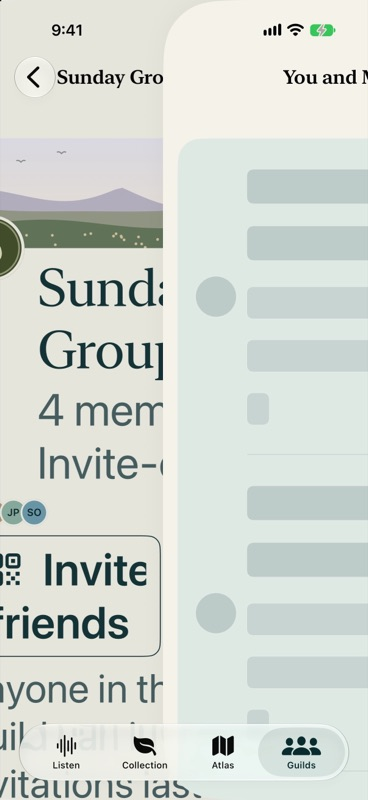
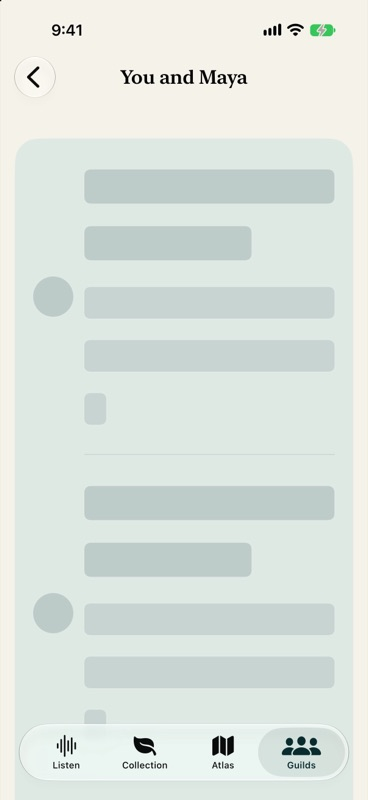
Speed review: numbers and shots after the fixes (#150)

diff --git a/DECISIONS.md b/DECISIONS.md
@@ -1056,15 +1056,15 @@ The UX audit of 2026-11-05, picked over by the maintainer, is #150; this slice i
 
 Before and after on a simulator with 1,000, 5,000 and 20,000 sightings are in `docs/screenshots/150/speed/`, with what's left for a phone. `-seedLarge <n>` and `-speedTour YES` (DEBUG) take them, on a phone too.
 
-- **One store owns the collection.** `CollectionStore`, in the environment, holds the `CardCollection`, and screens read it. It builds again only when the sightings or the sets differ from what it was built from (`CardCollectionCache`, whose tests hold that it answers as a fresh collection does). `PackLibrary.collection(of:)` is gone, so a view can't go back to building its own. Screens that read only the collection lose their `@Query` of the whole album too.
+- **One store owns the collection.** `CollectionStore`, in the environment, holds the `CardCollection`, and screens read it. It builds again only when the sightings or the sets differ from what it was built from (`CardCollectionCache`, whose tests hold that it answers as a fresh collection does). `PackLibrary.collection(of:)` is gone, so a view can't go back to building its own. Screens that read only the collection lose their `@Query` of the whole album too, Listen among them, so a launch fetches the album once, for the store.
 - **It listens for saves, not `@Query`.** `ModelContext.didSave` for its own album reaches it before `save()` returns on the main actor, so a screen drawn after an add already reads the new patch, without a store updated from a view body or a frame with the two disagreeing. Every write in the app saves explicitly, so nothing it reads goes unnoticed. A save that changes nothing it reads (a note, a caption, rarity) reads the album and compares, and no screen draws again. The sets it follows by observation.
 - **Two builds stay outside it**: `SightingRecorder.record` and `RunSightings`, which aren't screens, build from the sightings of one species at an add, and have to answer about the sighting just written.
 - **A patch's page takes its sightings from one table of the album** rather than filtering the album once per patch. Not in the audit: profiling found it, at 8 s of CPU opening a patch over 5,000 sightings.
 - **Lazy rows.** The Atlas's tiles and birds and a set's rows are `LazyVStack`s inside the page's plain `VStack`, which keeps the layout and `-autoScrollTo` as they were. `testASetsPageMakesItsRowsAsTheyScrollIn` counts what was made at open.
-- **The engine warms when Listen appears**: 300 ms after the page appears (past its first frame), at utility priority, in `WarmLoader`, the one load every run shares. Start during the warm-up waits for the same load and raises its priority. A memory warning drops the loader's reference: a run under way keeps its own and the memory goes when it ends, and nothing reloads until Listen appears again or Start is tapped. A load under way carries on, since forgetting it would start a second beside it, and the 8 MB geomodel stays, since the rarity reader uses it as well. The root sets `warmEngine` in the environment, so screens hosted in tests don't load the models.
+- **The engine warms when Listen appears**: 300 ms after the page appears (past its first frame), at utility priority, in `WarmLoader`, the one load every run shares. Start during the warm-up waits for the same load and raises its priority. It doesn't warm during a run, which holds its own engine. A memory warning drops the loader's reference: a run under way keeps its own and the memory goes when it ends, and nothing reloads until Listen appears again or Start is tapped. A load under way carries on, since forgetting it would start a second beside it, and the 8 MB geomodel stays, since the rarity reader uses it as well. The root sets `warmEngine` in the environment, so screens hosted in tests don't load the models.
 - **The Guild cache holds more than the issue names.** The issue says the list and each feed's first page; it also holds each Guild's detail and goals, since a Guild's page can't draw without its detail and a card's faces and goal come from the two. It's one small JSON file in Caches (the server's own shape through the same decoders), so it's out of backups and iOS may purge it. Each read marks what's fresh, so what came from the cache is still read once per launch, in place.
-- **It goes with the account.** The root's `clear()` runs on any sign-out, including a revoked token and account deletion, and removes the file before returning. An answer on its way at that moment is dropped rather than stored, and a cache found at launch while signed out goes unread. Blocking takes a friend's finds out of the feeds and the file at once, not after the reload, which could fail.
-- **Compare keeps the last read in memory only**, by friend, in `CircleStore.friendBirds`. Slice 8's friends' species can build on it.
+- **It goes with the account.** The root's `clear()` runs on any sign-out, including a revoked token and account deletion, and removes the file before returning. An answer on its way at that moment is dropped rather than stored, and a cache found at launch while signed out goes unread. Blocking takes a friend's finds out of the feeds and the file at once, not after the reload, which could fail, and a block made on another device does the same when the list of blocks is read.
+- **Compare keeps the last read in memory only**, by friend, in `CircleStore.friendBirds`, and a block, here or read from another device, or the server answering not found, drops it, so a blocked friend's birds don't stay on screen. Slice 8's friends' species can build on it.
 - **The placeholder** is `GuildPlaceholder`: rows of redacted text with a soft disc, on the list's raised surface. VoiceOver hears "Loading" once per placeholder. It replaces the centred spinner on the Guilds list, a Guild's page, its feed and goals, Compare and the join screen; spinners inside a button (More finds, Join) and "Making an invitation…", which waits on an action rather than content, stay.
 - **`-fakeCircles offline` now fails every read**, not only the list, as no connection does. `-fakeCircleLatency <seconds>` slows the fake's reads and `-circleCacheFile <name>` gives it a cache in tmp; the fakes have none without it.
 

diff --git a/docs/screenshots/150/speed/README.md b/docs/screenshots/150/speed/README.md
@@ -20,9 +20,9 @@ The screen refreshes every second and on the waveform, and built the collection 
 
 | Sightings | Builds | Build ms | CPU ms | Time over budget |
 |---|---|---|---|---|
-| 1,000 | 301 → **0** | 5,205 → **0** | 12,559 → **8,703** | 1,213 → **0** ms |
-| 5,000 | 232 → **0** | 20,965 → **0** | 28,989 → **10,119** | 21,463 → **20** ms |
-| 20,000 | 57 → **0** | 21,569 → **0** | 29,297 → **9,645** | 23,670 → **0** ms |
+| 1,000 | 301 → **0** | 5,205 → **0** | 12,559 → **9,499** | 1,213 → **0** ms |
+| 5,000 | 232 → **0** | 20,965 → **0** | 28,989 → **7,760** | 21,463 → **29** ms |
+| 20,000 | 57 → **0** | 21,569 → **0** | 29,297 → **9,790** | 23,670 → **36** ms |
 
 Before, at 5,000 sightings, the main thread spent 21 s of 30 s building the collection. The count falls at 20,000 only because each build takes so long that few fit.
 
@@ -30,11 +30,11 @@ Before, at 5,000 sightings, the main thread spent 21 s of 30 s building the coll
 
 | Step | Builds (5k) | CPU ms (5k) | Worst frame (5k) | CPU ms (20k) | Worst frame (20k) |
 |---|---|---|---|---|---|
-| Collection tab | 2 → 0 | 1,305 → 1,147 | 738 → 562 ms | 3,416 → 2,618 | past the window → 1,761 ms |
-| A patch's page | 2 → 0 | 8,245 → 1,045 | past the window → 691 ms | 39,510 → 1,717 | past the window → 1,400 ms |
-| Adding a sighting, on the Collection tab | 8 → 1 | 1,950 → 1,184 | 1,435 → 552 ms | 29,176 → 3,384 | past the window → 1,756 ms |
-| Atlas tab | 3 → 0 | 1,411 → 483 | 831 → 287 ms | 6,758 → 942 | past the window → 2,111 ms |
-| A set's page (R5) | 1 → 0 | 1,044 → 255 | 472 → 85 ms | 2,441 → 231 | 15,431 → 74 ms |
+| Collection tab | 2 → 0 | 1,305 → 1,172 | 738 → 569 ms | 3,416 → 2,312 | past the window → 1,708 ms |
+| A patch's page | 2 → 0 | 8,245 → 1,111 | past the window → 683 ms | 39,510 → 1,855 | past the window → 1,388 ms |
+| Adding a sighting, on the Collection tab | 8 → 1 | 1,950 → 1,047 | 1,435 → 480 ms | 29,176 → 3,543 | past the window → 1,550 ms |
+| Atlas tab | 3 → 0 | 1,411 → 485 | 831 → 287 ms | 6,758 → 979 | past the window → 777 ms |
+| A set's page (R5) | 1 → 0 | 1,044 → 179 | 472 → 69 ms | 2,441 → 246 | 15,431 → 87 ms |
 
 At 20,000 before, the 29 s beside "Adding a sighting" is mostly the patch page still paying off from the step ahead of it. A set's 15 s frame is the same kind of leftover.
 
@@ -44,10 +44,10 @@ A set's page made all 160 rows at open and now makes what's on screen: `testASet
 
 | | Before | After |
 |---|---|---|
-| First Start to listening, 5,000 sightings | 230 ms | **84 ms** |
+| First Start to listening, 5,000 sightings | 230 ms | **63 ms** |
 | When the models load | on Start | on Listen, before Start |
 
-The load itself takes 220 to 580 ms on this simulator, depending on the Mac's load, against a fixed location fix and a Mac's disk. The audit's "Starting: finding your location and loading the models" may be mostly the location on a phone, and only a phone can say.
+The load itself takes about 220 ms on this simulator, against a fixed location fix and a Mac's disk. The audit's "Starting: finding your location and loading the models" may be mostly the location on a phone, and only a phone can say.
 
 ### Guilds (R8)
 
@@ -61,12 +61,14 @@ The fake server was slowed to 1 s a read (`-fakeCircleLatency 1`; in the before 
 
 ## What the launch pays
 
-The collection is built once at launch, in the app's init instead of Listen's first body. Reading and building takes 64 ms at 1,000 sightings, 166 ms at 5,000 and 666 ms at 20,000, against 27, 114 and 595 before. The two aren't the same work (the store's also reads the album). It's once per launch, and the first of what used to be many, but it's on the main thread before the first frame, so check it on a phone.
+The collection is built once at launch, in the app's init instead of Listen's first body, and both come before the first frame. The `launch-build-ms` figures are 40, 167 and 619 ms at 1,000, 5,000 and 20,000 sightings, against 27, 114 and 595 before, **but they don't measure the same work**: before, the album had already been fetched by Listen's `@Query`, outside the timer, and now the store's fetch is inside it.
+
+The first version of this slice did fetch the album twice at launch, once for the store and once for Listen's `@Query`. Listen now reads the kept collection, so a launch fetches it once, as it did before. A launch before and after therefore does the same fetch and the same build, and this slice has no like-for-like launch number. That's the phone's check, below.
 
 ## Still slow, not in this slice
 
 - **The Collection tab** at 20,000 sightings still holds a frame for about 1.7 s, with no builds left in it. `JournalView`'s `@Query` of the album, its search filter and `Journal.days` run over every sighting. The same goes for an add, which redraws it.
-- **A save** reads the whole album to compare (the 32, 152 and 608 ms under "Adding a sighting"). A note or a caption pays that too, though no screen draws again. Fetching only the four columns it reads didn't help (627 to 608 ms at 20,000, within the noise), so the after runs had that and the code no longer does.
+- **A save** reads the whole album to compare (the 31, 149 and 604 ms under "Adding a sighting"). A note or a caption pays that too, though no screen draws again. Fetching only the four columns it reads didn't help (627 to 608 ms at 20,000, within the noise), so the code does not.
 
 ## Screenshots
 
